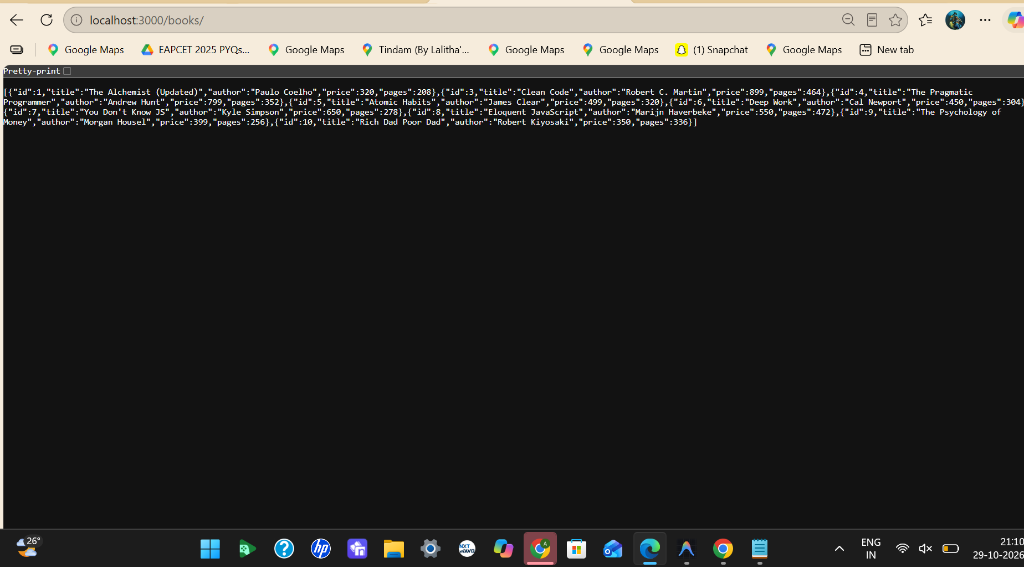
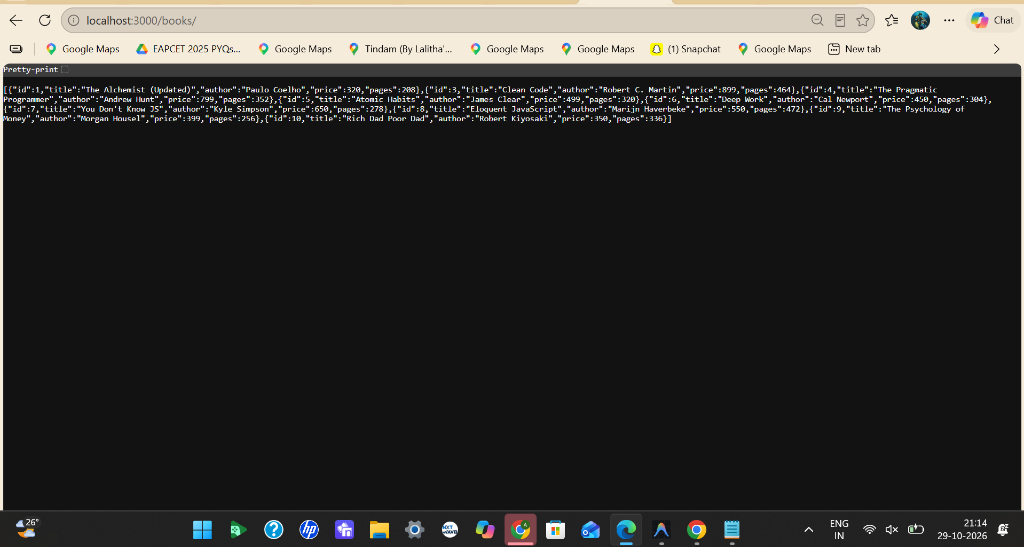
Add deleted book 404 verification screenshot and update route captures in lab-02

diff --git a/lab-02/README.md b/lab-02/README.md
@@ -17,6 +17,7 @@ The Express server connects to an embedded SQLite database (`books.db`) and prov
 - **GET Single Book (ID 3):** [http://localhost:3000/books/3/](http://localhost:3000/books/3/)
 - **GET Single Book (ID 1):** [http://localhost:3000/books/1/](http://localhost:3000/books/1/)
 - **GET Unknown Book (404):** [http://localhost:3000/books/999/](http://localhost:3000/books/999/)
+- **GET Deleted Book Verification (404):** [http://localhost:3000/books/2/](http://localhost:3000/books/2/)
 
 ### Live Cloud Deployment (Render)
 - **Base URL:** [https://p-avinash-backend-lab-02.onrender.com/](https://p-avinash-backend-lab-02.onrender.com/)
@@ -28,25 +29,26 @@ The Express server connects to an embedded SQLite database (`books.db`) and prov
 
 ```text
 lab-02/
-├── index.js                    # Express application & initializeDBAndServer()
-├── schema.sql                  # Database table definition & initial 9 seed records
-├── initdb.js                   # Database initialization and reset script
-├── books.db                    # SQLite database file storing book records
-├── package.json                # Project configuration, dependencies & scripts
-├── package-lock.json           # Locked dependency tree
-├── .gitignore                  # Ignores node_modules/ and .env
-├── README.md                   # Lab documentation, instructions & viva answers
-└── screenshots/                # Request, response, and database proof captures
-    ├── 00-root-home.png        # GET / (200 OK - API overview)
-    ├── 01-get-all.png          # GET /books/ (200 OK - all books)
-    ├── 02-get-one.png          # GET /books/3/ (200 OK - Clean Code)
-    ├── 02b-get-one-updated.png # GET /books/1/ (200 OK - The Alchemist Updated)
-    ├── 03-get-one-404.png      # GET /books/999/ (404 Not Found)
-    ├── 04-post-add.png         # POST /books/ (201 Created)
-    ├── 05-post-invalid-400.png # POST /books/ (400 Bad Request - validation error)
-    ├── 06-put-update.png       # PUT /books/:bookId/ (200 OK - updated record)
-    ├── 07-delete.png           # DELETE /books/:bookId/ (200 OK - deleted record)
-    ├── 08-sql-injection-safe.png # SQL injection attempt handled safely (404 Not Found)
+├── index.js                         # Express application & initializeDBAndServer()
+├── schema.sql                       # Database table definition & initial 9 seed records
+├── initdb.js                        # Database initialization and reset script
+├── books.db                         # SQLite database file storing book records
+├── package.json                     # Project configuration, dependencies & scripts
+├── package-lock.json                # Locked dependency tree
+├── .gitignore                       # Ignores node_modules/ and .env
+├── README.md                        # Lab documentation, instructions & viva answers
+└── screenshots/                     # Request, response, and database proof captures
+    ├── 00-root-home.png             # GET / (200 OK - API overview)
+    ├── 01-get-all.png               # GET /books/ (200 OK - all books)
+    ├── 02-get-one.png               # GET /books/3/ (200 OK - Clean Code)
+    ├── 02b-get-one-updated.png      # GET /books/1/ (200 OK - The Alchemist Updated)
+    ├── 03-get-one-404.png           # GET /books/999/ (404 Not Found)
+    ├── 04-post-add.png              # POST /books/ (201 Created)
+    ├── 05-post-invalid-400.png      # POST /books/ (400 Bad Request - validation error)
+    ├── 06-put-update.png            # PUT /books/:bookId/ (200 OK - updated record)
+    ├── 07-delete.png                # DELETE /books/:bookId/ (200 OK - deleted record)
+    ├── 07b-deleted-book-verify-404.png # GET /books/2/ (404 Not Found - verify deletion)
+    ├── 08-sql-injection-safe.png    # SQL injection attempt handled safely (404 Not Found)
     └── 09-database-after-changes.png # SQLite CLI view verifying persistent DB updates
 ```
 
@@ -237,6 +239,14 @@ Initial seed records (9 books):
 
 ![DELETE a book](screenshots/07-delete.png)
 
+#### Verification: Requesting Deleted Book (`GET /books/2/`) returns 404
+- **URL:** `http://localhost:3000/books/2/`
+- **Method:** `GET`
+- **Status:** `404 Not Found`
+- **Output:** `{"error": "Book not found"}`
+
+![Verification of Deleted Book returning 404](screenshots/07b-deleted-book-verify-404.png)
+
 ---
 
 ### 8. SQL Injection Prevention Verification
@@ -310,6 +320,7 @@ Initial seed records (9 books):
 - [x] `POST /books/` with invalid body returns validation error (Status 400)
 - [x] `PUT /books/:bookId/` updates book (Status 200)
 - [x] `DELETE /books/:bookId/` removes book (Status 200)
+- [x] Verification that deleted book returns 404 Not Found
 - [x] Parameterized `?` placeholders prevent SQL injection
 - [x] `books.db` verified via SQLite query showing persistent updates
 - [x] Actual browser screenshots added to `screenshots/` and embedded in `README.md`
